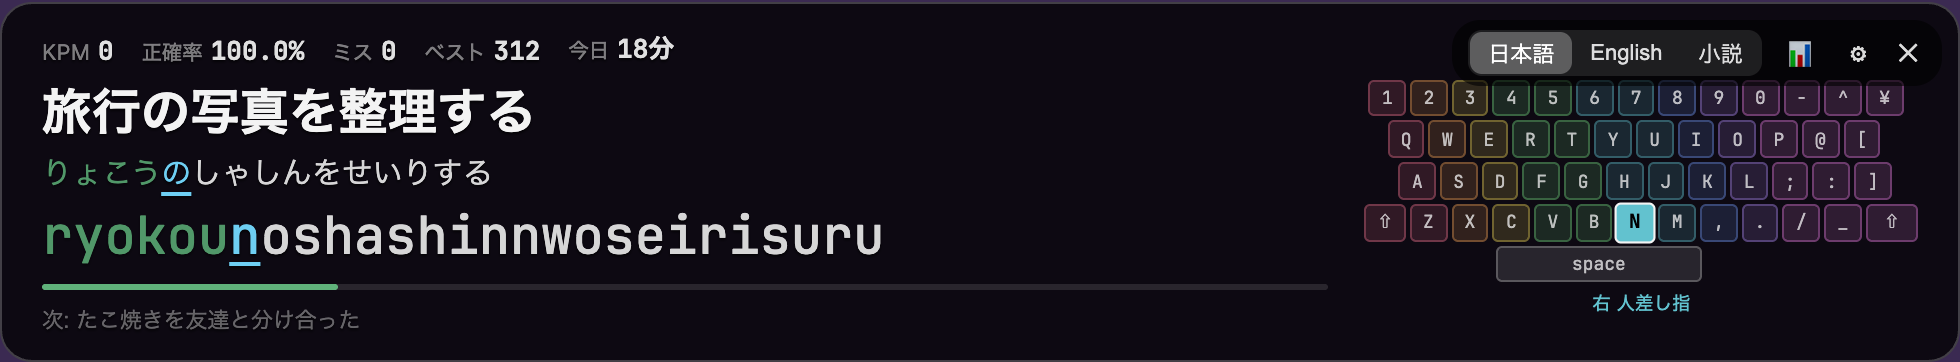
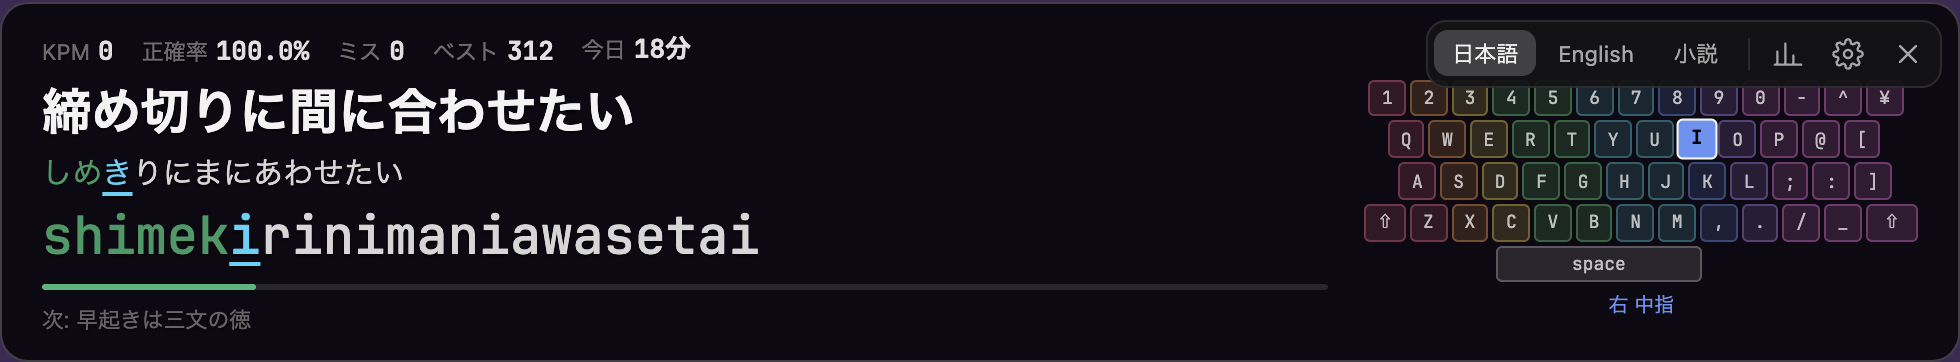
Unify UI design across bar, settings and analytics
Shared tokens.css for colors, fonts, radii, buttons, segmented controls,
toasts and tooltips; replace emoji controls with line SVG icons.

diff --git a/src/css/bar.css b/src/css/bar.css
@@ -2,12 +2,11 @@
   --bg-opacity: 0.4;
   --text-opacity: 0.95;
   --fs: 26px;
-  --jp: "Hiragino Sans", "Yu Gothic UI", "Meiryo", sans-serif;
+  --jp: var(--font-jp);
   --jp-weight: 700;
-  --mono: "JetBrains Mono", "Cascadia Mono", Menlo, Consolas, monospace;
-  --done: #73e094;
-  --accent: #73d9ff;
-  --miss: #ff6173;
+  --mono: var(--font-mono);
+  --done: var(--good);
+  --miss: var(--bad);
 }
 html, body {
   margin: 0;
@@ -16,7 +15,7 @@ html, body {
   user-select: none;
   -webkit-user-select: none;
   cursor: default;
-  font-family: system-ui, -apple-system, "Segoe UI", "Yu Gothic UI", sans-serif;
+  font-family: var(--font-ui);
 }
 body { display: flex; flex-direction: column; justify-content: flex-end; height: 100vh; }
 
@@ -24,14 +23,14 @@ body { display: flex; flex-direction: column; justify-content: flex-end; height:
   position: relative;
   box-sizing: border-box;
   padding: 12px 20px;
-  border-radius: 16px;
+  border-radius: var(--r-lg);
   background: rgba(0, 0, 0, var(--bg-opacity));
   border: 1px solid rgba(255, 255, 255, 0.07);
   color: #fff;
   transition: opacity 0.25s ease, border-color 0.15s ease;
 }
-.card.focused { border-color: rgba(255, 255, 255, 0.22); }
-.card.miss { border: 2px solid rgba(255, 60, 60, 0.9); padding: 11px 19px; }
+.card.focused { border-color: var(--line-strong); }
+.card.miss { border: 2px solid var(--miss); padding: 11px 19px; }
 .card.done { border: 2px solid var(--done); padding: 11px 19px; }
 .card.dimmed { opacity: 0.4; }
 .card.compact { padding-top: 8px; padding-bottom: 8px; }
@@ -40,7 +39,7 @@ body { display: flex; flex-direction: column; justify-content: flex-end; height:
 .col { flex: 1; min-width: 0; display: flex; flex-direction: column; gap: 5px; text-shadow: 0 1px 1.5px rgba(0, 0, 0, 0.75); }
 
 .stats { display: flex; gap: 14px; height: 22px; align-items: center; white-space: nowrap; overflow: hidden; }
-.stat .k { font-size: 11px; color: rgba(255, 255, 255, 0.5); margin-right: 4px; }
+.stat .k { font-size: 11px; color: var(--muted); margin-right: 4px; }
 .stat .v { font: 700 13px var(--mono); color: rgba(255, 255, 255, 0.92); }
 
 .display { font-family: var(--jp); font-weight: var(--jp-weight); font-size: calc(var(--fs) * 0.95); line-height: 1.25; }
@@ -50,7 +49,7 @@ body { display: flex; flex-direction: column; justify-content: flex-end; height:
 .rest-part { color: rgba(255, 255, 255, 0.88); }
 .cur.underline { color: var(--accent); text-decoration: underline; text-decoration-color: var(--accent); text-underline-offset: 4px; text-decoration-thickness: 2px; }
 .cur.color { color: var(--accent); }
-.cur.box { color: #fff; background: rgba(115, 217, 255, 0.28); border-radius: 3px; }
+.cur.box { color: #fff; background: rgba(115, 217, 255, 0.28); border-radius: 4px; }
 .cur.missed { color: var(--miss) !important; text-decoration-color: var(--miss) !important; }
 .cur.box.missed { background: rgba(255, 97, 115, 0.55); color: #fff !important; }
 
@@ -59,7 +58,7 @@ body { display: flex; flex-direction: column; justify-content: flex-end; height:
 .next { font-family: var(--jp); font-size: calc(var(--fs) * 0.42); color: rgba(255, 255, 255, 0.4); white-space: nowrap; overflow: hidden; text-overflow: ellipsis; }
 .hint { font-size: 11px; color: rgba(255, 255, 255, 0.6); display: flex; gap: 8px; align-items: center; }
 .hint:empty { display: none; }
-.hint button { font-size: 11px; color: #fff; background: rgba(255, 255, 255, 0.18); border: 0; border-radius: 10px; padding: 1px 10px; }
+.hint button { font-size: 11px; padding: 1px 10px; border-radius: var(--r-pill); }
 
 /* キーボードガイド */
 .kbd { padding-top: 26px; display: flex; flex-direction: column; gap: 2px; }
@@ -75,19 +74,18 @@ body { display: flex; flex-direction: column; justify-content: flex-end; height:
 
 /* ホバー時の操作 */
 .controls {
-  position: absolute; top: 8px; right: 8px; display: flex; opacity: 0.35; transition: opacity 0.15s ease; gap: 8px; align-items: center;
-  padding: 4px 8px; border-radius: 14px; background: rgba(0, 0, 0, 0.6);
+  position: absolute; top: 8px; right: 8px; display: flex; gap: 4px; align-items: center;
+  padding: 3px; border-radius: var(--r-md); background: var(--glass); border: 1px solid var(--line);
+  opacity: 0.35; transition: opacity 0.15s ease;
 }
 .card.hover .controls, .card.focused .controls, .controls:hover { opacity: 1; }
-.controls button { background: none; border: 0; color: rgba(255, 255, 255, 0.85); font-size: 13px; padding: 2px 4px; border-radius: 6px; }
-.controls button:hover { background: rgba(255, 255, 255, 0.15); }
-.seg { display: flex; background: rgba(255, 255, 255, 0.1); border-radius: 7px; padding: 1px; }
-.seg button { font-size: 11px; padding: 2px 9px; }
-.seg button.on { background: rgba(255, 255, 255, 0.28); color: #fff; }
+.controls .seg { border: 0; background: none; padding: 0; }
+.controls .seg button { font-size: 11px; padding: 3px 9px; }
+.controls .sep { width: 1px; height: 16px; background: var(--line); margin: 0 2px; }
 
 .toast {
-  position: absolute; right: 10px; bottom: 10px; padding: 4px 10px; border-radius: 12px;
-  background: rgba(255, 255, 255, 0.9); color: #000; font-size: 12px; font-weight: 600;
+  position: absolute; right: 10px; bottom: 10px; padding: 5px 12px; border-left: 3px solid var(--good);
+  font-size: 12px; font-weight: 600;
   opacity: 0; transition: opacity 0.2s ease; pointer-events: none;
 }
 .toast.show { opacity: 1; }

diff --git a/src/css/analytics.css b/src/css/analytics.css
@@ -4,22 +4,22 @@
 .grid2 { display: grid; grid-template-columns: 1fr 1fr; gap: 14px; align-items: start; }
 .tiles { display: grid; grid-template-columns: repeat(6, 1fr); gap: 14px; }
 .tile .t { font-size: 11px; color: var(--ink2); }
-.tile .v { font-size: 24px; font-weight: 600; margin: 4px 0; white-space: nowrap; }
+.tile .v { font-size: 24px; font-weight: 700; font-variant-numeric: tabular-nums; margin: 4px 0; white-space: nowrap; }
 .tile .n { font-size: 10px; color: var(--muted); white-space: nowrap; overflow: hidden; }
 .tile .n .d { color: var(--ink2); font-variant-numeric: tabular-nums; }
-.up { color: var(--good); } .down { color: var(--critical); }
+.up { color: var(--good); } .down { color: var(--bad); }
 .head { display: flex; justify-content: space-between; align-items: flex-start; gap: 10px; margin-bottom: 10px; }
-.hero { text-align: right; } .hero b { font-size: 22px; font-weight: 600; display: block; } .hero span { font-size: 10px; color: var(--ink2); }
+.hero { text-align: right; } .hero b { font-size: 22px; font-weight: 700; font-variant-numeric: tabular-nums; display: block; } .hero span { font-size: 10px; color: var(--ink2); }
 .chart { position: relative; }
 .chart svg { display: block; overflow: visible; }
 .chart text { fill: var(--muted); font-size: 10px; font-variant-numeric: tabular-nums; }
 .empty { color: var(--muted); font-size: 12px; padding: 24px 0; text-align: center; }
-.tip { position: fixed; pointer-events: none; display: none; background: #262624; border: 1px solid var(--border); border-radius: 8px; padding: 6px 10px; max-width: 260px; z-index: 10; }
+.tip { position: fixed; pointer-events: none; display: none; padding: 6px 10px; max-width: 260px; z-index: 10; }
 .tip div { white-space: nowrap; overflow: hidden; text-overflow: ellipsis; font-size: 12px; }
 .tip div:first-child { font-size: 10px; color: var(--ink2); }
 .tip div:nth-child(2) { font-weight: 600; }
 .rank { display: grid; grid-template-columns: minmax(90px, auto) 1fr auto auto; gap: 7px 10px; align-items: center; }
-.rank .l { font: 500 12px ui-monospace, Menlo, Consolas, monospace; display: flex; align-items: center; gap: 6px; }
+.rank .l { font: 500 12px var(--font-mono); display: flex; align-items: center; gap: 6px; }
 .rank .sw { width: 8px; height: 8px; border-radius: 50%; display: inline-block; }
 .rank .b { height: 6px; background: var(--grid); border-radius: 3px; overflow: hidden; }
 .rank .b > div { height: 100%; background: var(--kpm); border-radius: 3px; min-width: 4px; }
@@ -28,8 +28,8 @@
 .heat { display: flex; align-items: flex-end; gap: 24px; flex-wrap: wrap; }
 .heat .rows { display: flex; flex-direction: column; gap: 3px; }
 .heat .r { display: flex; gap: 3px; }
-.heat .k { width: 40px; height: 40px; border-radius: 5px; display: flex; flex-direction: column; align-items: center; justify-content: center; }
-.heat .k b { font: 600 13px ui-monospace, Menlo, Consolas, monospace; }
+.heat .k { width: 40px; height: 40px; border-radius: var(--r-sm); display: flex; flex-direction: column; align-items: center; justify-content: center; }
+.heat .k b { font: 600 13px var(--font-mono); }
 .heat .k i { font-style: normal; font-size: 9px; opacity: 0.85; font-variant-numeric: tabular-nums; }
 .legend { font-size: 11px; color: var(--ink2); display: flex; flex-direction: column; gap: 4px; }
 .legend .g { width: 160px; height: 10px; border-radius: 3px; }

diff --git a/src/css/tokens.css b/src/css/tokens.css
@@ -1,0 +1,62 @@
+/* 全画面共通のデザイントークンと部品。帯・設定・統計はすべてこれを読み込む。 */
+:root {
+  color-scheme: dark;
+
+  /* 文字 */
+  --font-ui: system-ui, -apple-system, "Segoe UI", "Hiragino Sans", "Yu Gothic UI", "Meiryo UI", sans-serif;
+  --font-jp: "Hiragino Sans", "Yu Gothic UI", "Meiryo", sans-serif;
+  --font-mono: "JetBrains Mono", "Cascadia Mono", "SF Mono", Menlo, Consolas, monospace;
+
+  /* 色（ダーク固定） */
+  --ink: #f2f2f0;
+  --ink2: rgba(242, 242, 240, 0.66);
+  --muted: rgba(242, 242, 240, 0.45);
+  --accent: #73d9ff;          /* 現在位置・選択中・スライダー */
+  --accent-soft: rgba(115, 217, 255, 0.16);
+  --good: #73e094;            /* 打てた・上昇 */
+  --bad: #ff6173;             /* ミス・下降・消去 */
+  --line: rgba(255, 255, 255, 0.10);
+  --line-strong: rgba(255, 255, 255, 0.22);
+  --fill: rgba(255, 255, 255, 0.07);       /* ボタン・セグメントの地 */
+  --fill-hover: rgba(255, 255, 255, 0.13);
+  --fill-on: rgba(255, 255, 255, 0.20);
+  --glass: rgba(18, 18, 22, 0.92);         /* トースト・ツールチップ */
+
+  /* 形 */
+  --r-sm: 7px;
+  --r-md: 10px;
+  --r-lg: 14px;
+  --r-pill: 999px;
+}
+
+/* ボタン */
+.btn, button {
+  font: inherit; color: var(--ink); background: var(--fill); border: 1px solid var(--line);
+  border-radius: var(--r-sm); padding: 5px 12px; cursor: default;
+  display: inline-flex; align-items: center; gap: 6px;
+  transition: background 0.12s ease, border-color 0.12s ease;
+}
+button:hover { background: var(--fill-hover); }
+button:focus-visible, select:focus-visible, input:focus-visible { outline: 2px solid var(--accent); outline-offset: 1px; }
+button.danger { color: var(--bad); }
+button.icon { background: none; border-color: transparent; padding: 4px; border-radius: var(--r-sm); color: var(--ink2); }
+button.icon:hover { background: var(--fill-hover); color: var(--ink); }
+.ico { width: 16px; height: 16px; flex: none; stroke: currentColor; fill: none; stroke-width: 1.8; stroke-linecap: round; stroke-linejoin: round; }
+
+/* セグメント切り替え */
+.seg { display: inline-flex; gap: 2px; background: var(--fill); border: 1px solid var(--line); border-radius: var(--r-md); padding: 2px; }
+.seg button { white-space: nowrap; border: 0; background: none; padding: 3px 11px; border-radius: calc(var(--r-md) - 3px); color: var(--ink2); }
+.seg button:hover { background: var(--fill-hover); color: var(--ink); }
+.seg button.on { background: var(--fill-on); color: var(--ink); }
+
+/* フォーム */
+select { font: inherit; color: var(--ink); background: var(--fill); border: 1px solid var(--line); border-radius: var(--r-sm); padding: 5px 10px; }
+select option { background: #1c1c20; }
+input[type=range] { accent-color: var(--accent); }
+input[type=checkbox] { accent-color: var(--accent); width: 15px; height: 15px; }
+
+/* トースト・ツールチップ */
+.toast, .tip {
+  background: var(--glass); color: var(--ink); border: 1px solid var(--line-strong);
+  border-radius: var(--r-md); box-shadow: 0 6px 20px rgba(0, 0, 0, 0.35);
+}

diff --git a/src/js/analytics-view.js b/src/js/analytics-view.js
@@ -1,5 +1,5 @@
 // 統計・分析ウィンドウ。グラフは SVG で描画（外部ライブラリなし）。
-// 配色はダーク面 #1a1a19 用の参照パレット。単一系列のグラフは指標ごとに1色、ヒートマップは青の単色ランプ。
+// 配色はダーク面 #17171b 用の参照パレット。単一系列のグラフは指標ごとに1色、ヒートマップは青の単色ランプ。
 import * as store from "./store.js";
 import { Analytics, stat, day, formatDuration } from "./analytics.js";
 import { rows, lookup, FINGER_NAMES, FINGER_COLORS } from "./keyboard.js";
@@ -9,7 +9,7 @@ const $ = (id) => document.getElementById(id);
 const esc = (s) => String(s).replace(/[&<>"]/g, (c) => ({ "&": "&amp;", "<": "&lt;", ">": "&gt;", '"': "&quot;" }[c]));
 const a = new Analytics();
 
-const C = { kpm: "#3987e5", time: "#9085e9", acc: "#199e70", grid: "#2c2c2a", baseline: "#383835", muted: "#898781" };
+const C = { kpm: "#3987e5", time: "#9085e9", acc: "#199e70", grid: "#2a2a2f", baseline: "#38383e", muted: "#8b8b90" };
 const RAMP = ["#184f95", "#1c5cab", "#256abf", "#2a78d6", "#3987e5", "#5598e7", "#6da7ec", "#86b6ef", "#9ec5f4", "#b7d3f6", "#cde2fb"];
 const rampColor = (t) => RAMP[Math.round(Math.max(0, Math.min(1, t)) * (RAMP.length - 1))];
 const rampInk = (t) => (t > 0.55 ? "#0b0b0b" : "#ffffff");
@@ -78,10 +78,10 @@ function chart(el, { n, ys, ys2, color, height, yLo, yHi, xLabel, tooltip, mode,
     let d = "", pen = false;
     line.forEach((v, i) => { if (v == null) return; d += `${pen ? "L" : "M"}${X(i).toFixed(1)},${Y(v).toFixed(1)} `; pen = true; });
     s += `<path d="${d}" fill="none" stroke="${color}" stroke-width="2" stroke-linejoin="round" stroke-linecap="round"/>`;
-    if (mode === "line") ys.forEach((v, i) => { if (v != null) s += `<circle cx="${X(i)}" cy="${Y(v)}" r="4" fill="${color}" stroke="#1a1a19" stroke-width="2"/>`; });
+    if (mode === "line") ys.forEach((v, i) => { if (v != null) s += `<circle cx="${X(i)}" cy="${Y(v)}" r="4" fill="${color}" stroke="#17171b" stroke-width="2"/>`; });
   }
   s += `<line id="rule" x1="0" x2="0" y1="${m.t}" y2="${m.t + ih}" stroke="${C.baseline}" visibility="hidden"/>`;
-  s += `<circle id="hl" r="5" fill="${color}" stroke="#1a1a19" stroke-width="2" visibility="hidden"/>`;
+  s += `<circle id="hl" r="5" fill="${color}" stroke="#17171b" stroke-width="2" visibility="hidden"/>`;
   s += `<rect x="${m.l}" y="${m.t}" width="${iw}" height="${ih}" fill="transparent" id="hit"/></svg>`;
   el.innerHTML = s;
 

diff --git a/src/css/window.css b/src/css/window.css
@@ -1,20 +1,12 @@
-/* 設定・分析ウィンドウ共通（ダーク固定） */
+/* 設定・分析ウィンドウ共通（tokens.css の上に重ねる） */
 :root {
-  color-scheme: dark;
-  --page: #0d0d0d; --surface: #1a1a19; --ink: #f0efec; --ink2: #c3c2b7; --muted: #898781;
-  --grid: #2c2c2a; --baseline: #383835; --border: rgba(255, 255, 255, 0.10);
-  --kpm: #3987e5; --time: #9085e9; --acc: #199e70; --good: #0ca30c; --critical: #d03b3b;
+  --page: #0e0e11; --surface: #17171b;
+  /* グラフ用（analytics-view.js の配色と揃える） */
+  --grid: #2a2a2f; --baseline: #38383e;
+  --kpm: #3987e5;
 }
-html, body { margin: 0; background: var(--page); color: var(--ink); font: 13px system-ui, -apple-system, "Segoe UI", "Yu Gothic UI", "Meiryo UI", sans-serif; }
-h1 { font-size: 20px; margin: 0; }
+html, body { margin: 0; background: var(--page); color: var(--ink); font: 13px var(--font-ui); }
+h1 { font-size: 18px; font-weight: 700; margin: 0; }
 h2 { font-size: 14px; margin: 0; font-weight: 600; }
 .sub { font-size: 11px; color: var(--ink2); margin-top: 2px; }
-.card { background: var(--surface); border: 1px solid var(--border); border-radius: 12px; padding: 16px; box-sizing: border-box; min-width: 0; }
-button, select { font: inherit; color: var(--ink); background: #2a2a28; border: 1px solid var(--border); border-radius: 7px; padding: 5px 11px; }
-button:hover { background: #343431; }
-button.danger { color: #ff8a8a; }
-.seg { display: inline-flex; background: #262624; border: 1px solid var(--border); border-radius: 8px; padding: 2px; }
-.seg button { border: 0; background: none; padding: 3px 11px; border-radius: 6px; }
-.seg button.on { background: #4a4a46; }
-input[type=range] { accent-color: var(--kpm); }
-input[type=checkbox] { accent-color: var(--kpm); width: 15px; height: 15px; }
+.card { background: var(--surface); border: 1px solid var(--line); border-radius: var(--r-lg); padding: 16px; box-sizing: border-box; min-width: 0; }

diff --git a/src/index.html b/src/index.html
@@ -3,6 +3,7 @@
 <head>
   <meta charset="utf-8">
   <title>TypingOverlay</title>
+  <link rel="stylesheet" href="css/tokens.css">
   <link rel="stylesheet" href="css/bar.css">
   <script type="module" src="js/bar.js"></script>
 </head>
@@ -22,9 +23,10 @@
     </div>
     <div class="controls" id="controls">
       <div class="seg" id="modes"></div>
-      <button id="btn-analytics" title="統計・分析 (⌘S / Ctrl+S)">📊</button>
-      <button id="btn-settings" title="設定 (⌘, / Ctrl+,)">⚙</button>
-      <button id="btn-hide" title="終了 (⌘Q / Ctrl+Q)">✕</button>
+      <span class="sep"></span>
+      <button id="btn-analytics" class="icon" title="統計・分析 (⌘S / Ctrl+S)"><svg class="ico" viewBox="0 0 24 24" aria-hidden="true"><path d="M4 20V10M10 20V4M16 20v-7M22 20H2"/></svg></button>
+      <button id="btn-settings" class="icon" title="設定 (⌘, / Ctrl+,)"><svg class="ico" viewBox="0 0 24 24" aria-hidden="true"><circle cx="12" cy="12" r="3"/><path d="M19.4 15a1.7 1.7 0 0 0 .3 1.8l.1.1a2 2 0 1 1-2.8 2.8l-.1-.1a1.7 1.7 0 0 0-1.8-.3 1.7 1.7 0 0 0-1 1.5V21a2 2 0 1 1-4 0v-.1a1.7 1.7 0 0 0-1.1-1.5 1.7 1.7 0 0 0-1.8.3l-.1.1a2 2 0 1 1-2.8-2.8l.1-.1a1.7 1.7 0 0 0 .3-1.8 1.7 1.7 0 0 0-1.5-1H3a2 2 0 1 1 0-4h.1a1.7 1.7 0 0 0 1.5-1.1 1.7 1.7 0 0 0-.3-1.8l-.1-.1a2 2 0 1 1 2.8-2.8l.1.1a1.7 1.7 0 0 0 1.8.3H9a1.7 1.7 0 0 0 1-1.5V3a2 2 0 1 1 4 0v.1a1.7 1.7 0 0 0 1 1.5 1.7 1.7 0 0 0 1.8-.3l.1-.1a2 2 0 1 1 2.8 2.8l-.1.1a1.7 1.7 0 0 0-.3 1.8V9a1.7 1.7 0 0 0 1.5 1H21a2 2 0 1 1 0 4h-.1a1.7 1.7 0 0 0-1.5 1z"/></svg></button>
+      <button id="btn-hide" class="icon" title="終了 (⌘Q / Ctrl+Q)"><svg class="ico" viewBox="0 0 24 24" aria-hidden="true"><path d="M6 6l12 12M18 6L6 18"/></svg></button>
     </div>
     <div class="toast" id="toast"></div>
   </div>

diff --git a/src/settings.html b/src/settings.html
@@ -3,11 +3,12 @@
 <head>
   <meta charset="utf-8">
   <title>設定</title>
+  <link rel="stylesheet" href="css/tokens.css">
   <link rel="stylesheet" href="css/window.css">
   <style>
     body { padding: 18px; }
     section { margin-bottom: 14px; }
-    section > h2 { margin: 0 0 8px 2px; color: var(--ink2); font-size: 12px; }
+    section > h2 { margin: 0 0 8px 2px; color: var(--ink2); font-size: 12px; font-weight: 600; }
     .card { display: flex; flex-direction: column; gap: 12px; }
     .line { display: flex; align-items: center; gap: 10px; min-height: 26px; }
     .line > label:first-child { width: 120px; flex: none; color: var(--ink); }
@@ -15,8 +16,8 @@
     .val { width: 34px; text-align: right; color: var(--ink2); font-variant-numeric: tabular-nums; }
     .note { font-size: 11px; color: var(--muted); line-height: 1.5; }
     .kv { display: flex; justify-content: space-between; color: var(--ink2); }
-    .kv b { color: var(--ink); font-weight: 600; }
-    pre { margin: 0; font: 11px/1.7 ui-monospace, Menlo, Consolas, monospace; color: var(--ink2); white-space: pre-wrap; }
+    .kv b { color: var(--ink); font-weight: 700; font-variant-numeric: tabular-nums; }
+    pre { margin: 0; font: 11px/1.7 var(--font-mono); color: var(--ink2); white-space: pre-wrap; }
     .btns { display: flex; gap: 8px; flex-wrap: wrap; }
     #n-sel { flex: 1; min-width: 0; }
   </style>

diff --git a/src/analytics.html b/src/analytics.html
@@ -3,6 +3,7 @@
 <head>
   <meta charset="utf-8">
   <title>統計・分析</title>
+  <link rel="stylesheet" href="css/tokens.css">
   <link rel="stylesheet" href="css/window.css">
   <link rel="stylesheet" href="css/analytics.css">
   <script type="module" src="js/analytics-view.js"></script>
@@ -13,8 +14,8 @@
       <h1>統計・分析</h1>
       <div class="seg" id="range"></div>
       <div class="spacer"></div>
-      <button id="csv">⇪ CSV 書き出し</button>
-      <button id="reset" class="danger">記録を消去</button>
+      <button id="csv"><svg class="ico" viewBox="0 0 24 24" aria-hidden="true"><path d="M12 4v11M7 10l5 5 5-5M5 20h14"/></svg>CSV 書き出し</button>
+      <button id="reset" class="danger"><svg class="ico" viewBox="0 0 24 24" aria-hidden="true"><path d="M4 7h16M9 7V4h6v3M6 7l1 13h10l1-13"/></svg>記録を消去</button>
     </div>
     <div id="content"></div>
   </div>

diff --git a/src/js/bar.js b/src/js/bar.js
@@ -112,7 +112,7 @@ function render() {
   const hint = $("hint");
   if (!s.seenTips) {
     const mod = isMac ? "⌘" : "Ctrl+";
-    hint.innerHTML = `💡 <span>Ctrl+Alt+T でブラウザ ⇄ タイピング切替　右クリックでメニュー　${mod}, で設定</span><button id="tips-ok">OK</button>`;
+    hint.innerHTML = `<span>Ctrl+Alt+T でブラウザ ⇄ タイピング切替　右クリックでメニュー　${mod}, で設定</span><button id="tips-ok">OK</button>`;
     $("tips-ok").onclick = () => store.set("seenTips", true);
   } else if (!focused) {
     hint.innerHTML = `<span>⏸ 一時停止中 — クリック or Ctrl+Alt+T で再開</span>`;
